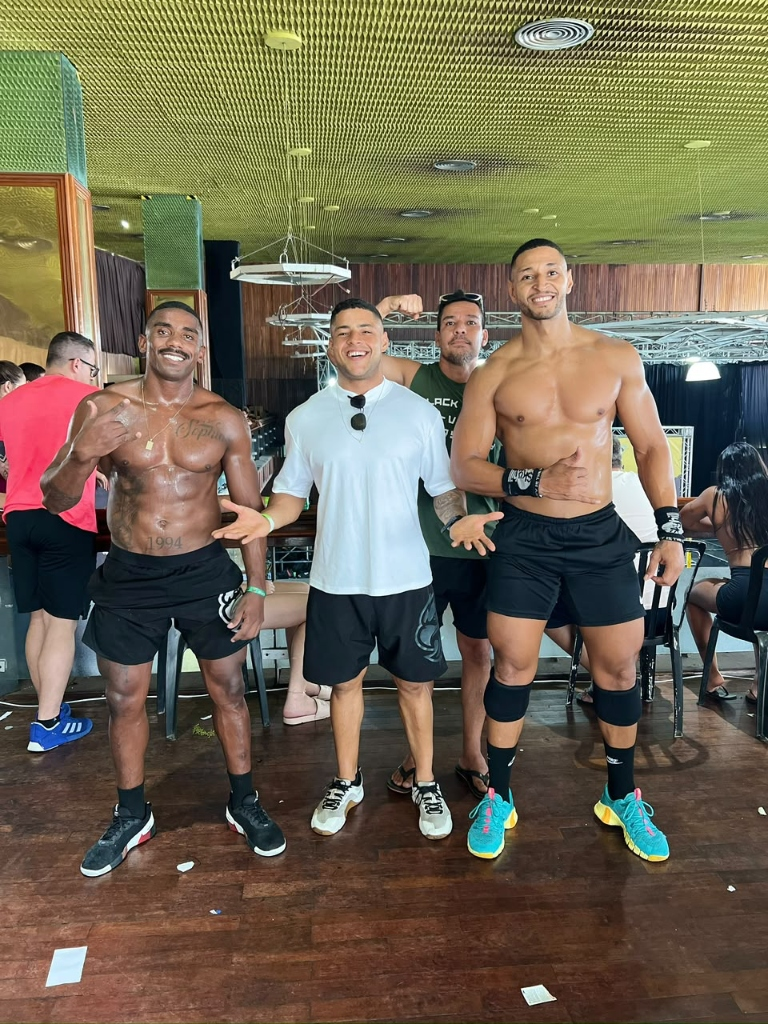
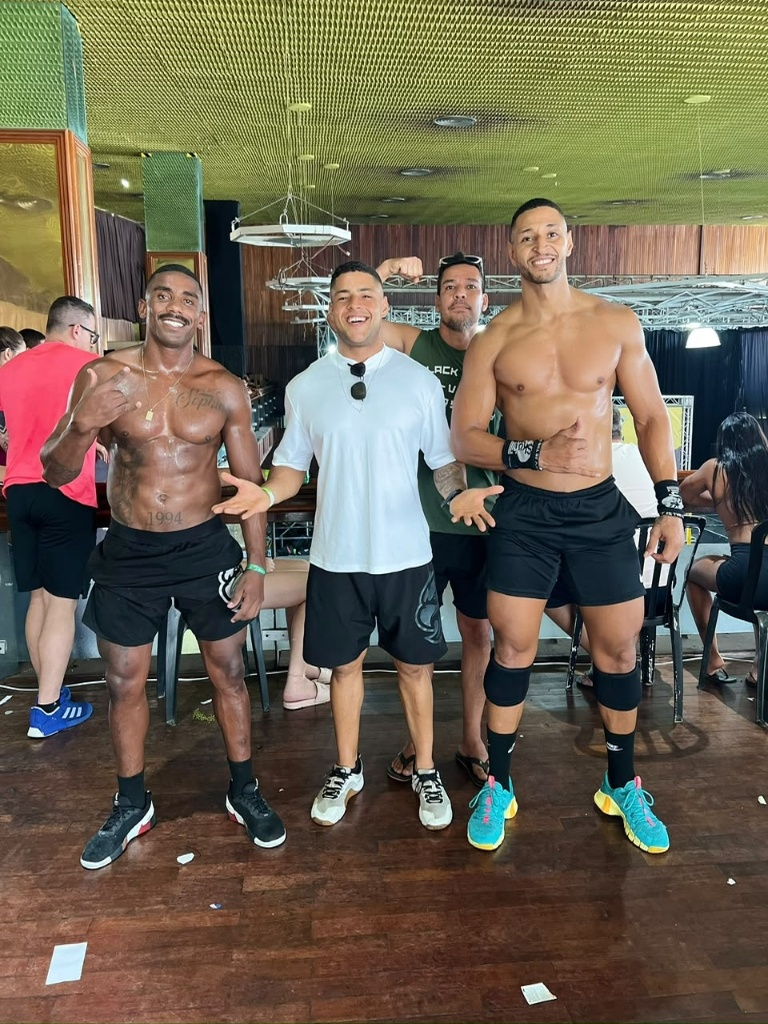
fix(cards): corrigir enquadramento, proporcao e corte das fotos de atletas

diff --git a/public/privacidade.html b/public/privacidade.html
@@ -1,1 +1,1 @@
-<!doctype html><html lang="pt-BR"><head><meta charset="utf-8"><meta name="viewport" content="width=device-width,initial-scale=1"><meta name="theme-color" content="#050B18"><title>Política de Privacidade | Léo Nery</title><link rel="icon" href="/assets/images/favicon.png" type="image/png"><link rel="preconnect" href="https://fonts.googleapis.com"><link rel="preconnect" href="https://fonts.gstatic.com" crossorigin><link href="https://fonts.googleapis.com/css2?family=Barlow+Condensed:wght@500;700;900&family=DM+Sans:wght@400;500;700&display=swap" rel="stylesheet"><link rel="stylesheet" href="/assets/css/style.css?v=23"></head><body><header class="site-header"><div class="container header-inner"><a class="brand" href="/"><img class="brand-logo" src="/assets/images/logo.png" width="512" height="512" alt="Léo Nery Nutrição Esportiva"></a><a class="header-cta" href="/">VOLTAR AO SITE <span class="cta-icon" aria-hidden="true"></span></a></div></header><main class="privacy-main"><div class="container"><span class="section-kicker">PRIVACIDADE E PROTEÇÃO DE DADOS</span><h1>POLÍTICA DE PRIVACIDADE</h1><p><strong>Modelo inicial:</strong> revise e personalize este documento com os dados reais do responsável antes de colocar o site em produção. A política precisa refletir o tratamento efetivamente realizado.</p><h2>1. Dados coletados</h2><p>No formulário de contato coletamos nome, e-mail, WhatsApp, objetivo e, caso informado, mensagem. Na pré-avaliação opcional, coletamos também experiência com treino, frequência semanal e local de treino. Os registros contêm data e hora, consentimento e uma identificação técnica protegida para prevenção de abuso; o endereço IP bruto não é armazenado.</p><h2>2. Finalidade</h2><p>Utilizamos os dados para atender solicitações de contato, responder dúvidas e analisar as informações fornecidas voluntariamente na pré-avaliação. O preenchimento não representa inscrição automática em publicidade nem contratação de serviço.</p><h2>3. Armazenamento e proteção</h2><p>As informações são armazenadas em área privada do servidor, fora da pasta pública do site. O acesso aos dados deverá ser restrito a pessoas autorizadas. Defina uma política de retenção adequada antes da publicação.</p><h2>4. Compartilhamento</h2><p>Não vendemos dados. Serviços técnicos de hospedagem ou envio de e-mails podem realizar tratamento necessário à operação e devem observar medidas de segurança e obrigações contratuais adequadas.</p><h2>5. Seus direitos</h2><p>Você pode solicitar informação, correção e exclusão de dados, quando aplicável, pelo canal oficial que será informado abaixo, nos termos da LGPD.</p><h2>6. Controlador e contato</h2><p><strong>Preencher antes de publicar:</strong> razão social/nome do controlador, CNPJ quando aplicável, endereço de contato e e-mail para privacidade.</p><p><a href="/">← VOLTAR PARA O SITE</a></p></div></main><footer class="site-footer"><div class="container footer-bottom"><span>LÉO NERY · POLÍTICA DE PRIVACIDADE</span></div></footer></body></html>
+<!doctype html><html lang="pt-BR"><head><meta charset="utf-8"><meta name="viewport" content="width=device-width,initial-scale=1"><meta name="theme-color" content="#050B18"><title>Política de Privacidade | Léo Nery</title><link rel="icon" href="/assets/images/favicon.png" type="image/png"><link rel="preconnect" href="https://fonts.googleapis.com"><link rel="preconnect" href="https://fonts.gstatic.com" crossorigin><link href="https://fonts.googleapis.com/css2?family=Barlow+Condensed:wght@500;700;900&family=DM+Sans:wght@400;500;700&display=swap" rel="stylesheet"><link rel="stylesheet" href="/assets/css/style.css?v=24"></head><body><header class="site-header"><div class="container header-inner"><a class="brand" href="/"><img class="brand-logo" src="/assets/images/logo.png" width="512" height="512" alt="Léo Nery Nutrição Esportiva"></a><a class="header-cta" href="/">VOLTAR AO SITE <span class="cta-icon" aria-hidden="true"></span></a></div></header><main class="privacy-main"><div class="container"><span class="section-kicker">PRIVACIDADE E PROTEÇÃO DE DADOS</span><h1>POLÍTICA DE PRIVACIDADE</h1><p><strong>Modelo inicial:</strong> revise e personalize este documento com os dados reais do responsável antes de colocar o site em produção. A política precisa refletir o tratamento efetivamente realizado.</p><h2>1. Dados coletados</h2><p>No formulário de contato coletamos nome, e-mail, WhatsApp, objetivo e, caso informado, mensagem. Na pré-avaliação opcional, coletamos também experiência com treino, frequência semanal e local de treino. Os registros contêm data e hora, consentimento e uma identificação técnica protegida para prevenção de abuso; o endereço IP bruto não é armazenado.</p><h2>2. Finalidade</h2><p>Utilizamos os dados para atender solicitações de contato, responder dúvidas e analisar as informações fornecidas voluntariamente na pré-avaliação. O preenchimento não representa inscrição automática em publicidade nem contratação de serviço.</p><h2>3. Armazenamento e proteção</h2><p>As informações são armazenadas em área privada do servidor, fora da pasta pública do site. O acesso aos dados deverá ser restrito a pessoas autorizadas. Defina uma política de retenção adequada antes da publicação.</p><h2>4. Compartilhamento</h2><p>Não vendemos dados. Serviços técnicos de hospedagem ou envio de e-mails podem realizar tratamento necessário à operação e devem observar medidas de segurança e obrigações contratuais adequadas.</p><h2>5. Seus direitos</h2><p>Você pode solicitar informação, correção e exclusão de dados, quando aplicável, pelo canal oficial que será informado abaixo, nos termos da LGPD.</p><h2>6. Controlador e contato</h2><p><strong>Preencher antes de publicar:</strong> razão social/nome do controlador, CNPJ quando aplicável, endereço de contato e e-mail para privacidade.</p><p><a href="/">← VOLTAR PARA O SITE</a></p></div></main><footer class="site-footer"><div class="container footer-bottom"><span>LÉO NERY · POLÍTICA DE PRIVACIDADE</span></div></footer></body></html>

diff --git a/public/index.html b/public/index.html
@@ -16,9 +16,9 @@
   <link
     href="https://fonts.googleapis.com/css2?family=Barlow+Condensed:wght@500;600;700;800;900&family=DM+Sans:wght@400;500;600;700&display=swap"
     rel="stylesheet">
-  <link rel="stylesheet" href="/assets/css/style.css?v=23">
+  <link rel="stylesheet" href="/assets/css/style.css?v=24">
   <script src="/assets/js/site-config.js" defer></script>
-  <script src="/assets/js/main.js?v=23" defer></script>
+  <script src="/assets/js/main.js?v=24" defer></script>
   <title>Léo Nery — Nutrição Esportiva</title>
 </head>
 
@@ -330,7 +330,7 @@
             </div>
           </div>
           <div class="results-grid" role="region" aria-label="Resultados de atletas" tabindex="0">
-            <figure class="result-card reveal"><img src="/assets/images/atleta-1.jpg" width="459" height="1024" alt="Atleta de fisiculturismo no palco com medalha acompanhado por Léo Nery" loading="lazy"></figure>
+            <figure class="result-card reveal"><img src="/assets/images/atleta-1.jpg" width="768" height="1024" alt="Atleta de fisiculturismo no palco com medalha acompanhado por Léo Nery" loading="lazy"></figure>
             <figure class="result-card reveal"><img src="/assets/images/atleta-2.jpg" width="768" height="1024" alt="Léo Nery com atletas da equipe em preparação esportiva" loading="lazy"></figure>
             <figure class="result-card reveal"><img src="/assets/images/atleta-3.jpg" width="768" height="1024" alt="Equipe de atletas com troféus e medalhas em campeonato" loading="lazy"></figure>
             <figure class="result-card reveal"><img src="/assets/images/atleta-4.jpg" width="768" height="1024" alt="Léo Nery e atleta campeão no pódio com troféu" loading="lazy"></figure>

diff --git a/public/assets/css/style.css b/public/assets/css/style.css
@@ -210,6 +210,7 @@ h2, h3, p { margin-top: 0; }
 .result-card { position: relative; overflow: hidden; flex: 0 0 calc((100% - 48px) / 3); min-width: 0; aspect-ratio: 800/1036; margin: 0; border: 1px solid var(--border); border-radius: 18px; background: var(--bg-secondary); scroll-snap-align: start; transition: transform .25s ease, border-color .25s ease; }
 .result-card:hover { border-color: var(--blue-light); transform: translateY(-4px); }
 .result-card > img { width: 100%; height: 100%; object-fit: cover; object-position: center top; transition: transform .65s ease; }
+#res-atletas .result-card > img { object-position: center center; }
 .result-card:hover > img { transform: scale(1.035); }
 .result-art-preview { position: absolute; z-index: 2; inset: 0; display: flex; flex-direction: column; justify-content: space-between; gap: 14px; padding: 18px 18px 20px; background: var(--bg-secondary); pointer-events: none; }
 .result-card:not([data-brand-placeholder]) .result-art-preview { display: none; }
